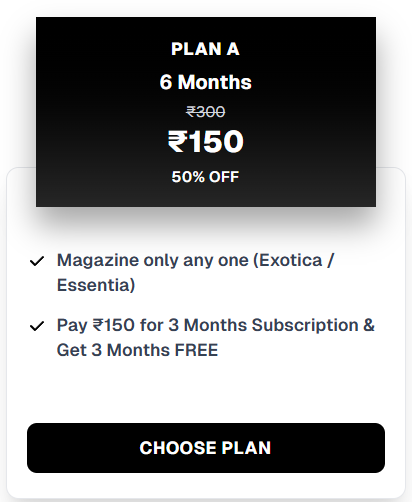
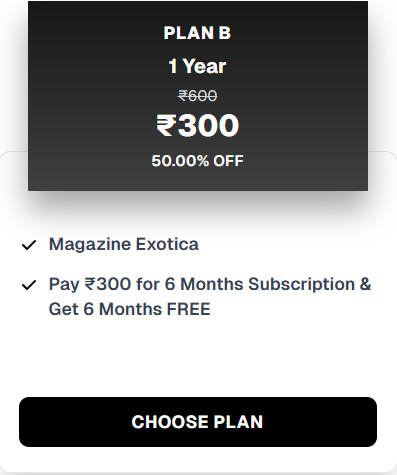
refactor: remove unused subscription images and clean up SubscriptionSlider component

diff --git a/components/SubscriptionSlider.tsx b/components/SubscriptionSlider.tsx
@@ -22,14 +22,7 @@ export default function SubscriptionSlider() {
       id: 3,
       image: '/sub2.png',
     },
-    {
-      id: 4,
-      image: '/sub3.png',
-    },
-    {
-      id: 5,
-      image: '/sub4.png',
-    },
+  
 
   ];
 